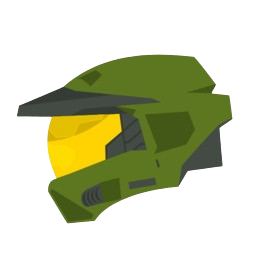
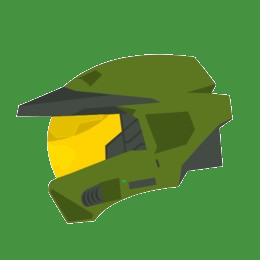
change

diff --git a/index.html b/index.html
@@ -8,7 +8,7 @@
         <meta charset="UTF-8">
         <meta name="viewport" content="width=device-width, initial-scale=1.0">
         <title>Website 1</title>
-        <link rel="icon" href="images/halo-helmet.png">    
+        <link rel="icon" href="chief.png">    
     </head>
 
     <body>
